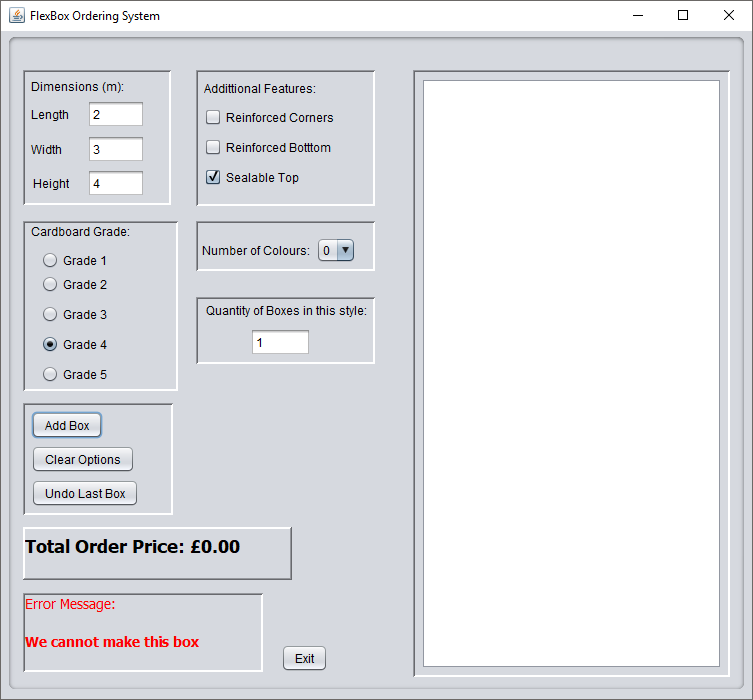
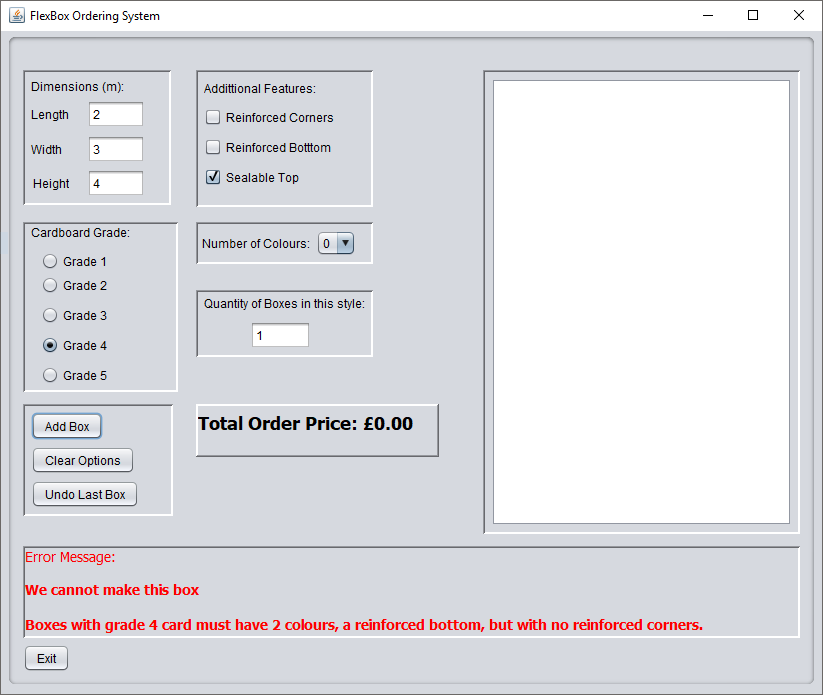
minor GUI change

diff --git a/adproc/src/adproc/FlexBoxUI.java b/adproc/src/adproc/FlexBoxUI.java
@@ -419,7 +419,7 @@ public class FlexBoxUI extends javax.swing.JFrame {
             outputPanelLayout.createParallelGroup(javax.swing.GroupLayout.Alignment.LEADING)
             .addGroup(outputPanelLayout.createSequentialGroup()
                 .addContainerGap()
-                .addComponent(jScrollPane1, javax.swing.GroupLayout.DEFAULT_SIZE, 415, Short.MAX_VALUE)
+                .addComponent(jScrollPane1)
                 .addContainerGap())
         );
 
@@ -455,13 +455,13 @@ public class FlexBoxUI extends javax.swing.JFrame {
         mainPanelLayout.setVerticalGroup(
             mainPanelLayout.createParallelGroup(javax.swing.GroupLayout.Alignment.TRAILING)
             .addGroup(mainPanelLayout.createSequentialGroup()
+                .addGap(23, 23, 23)
                 .addGroup(mainPanelLayout.createParallelGroup(javax.swing.GroupLayout.Alignment.LEADING)
                     .addGroup(mainPanelLayout.createSequentialGroup()
-                        .addGap(23, 23, 23)
                         .addGroup(mainPanelLayout.createParallelGroup(javax.swing.GroupLayout.Alignment.LEADING)
                             .addGroup(mainPanelLayout.createSequentialGroup()
                                 .addComponent(dimPanel, javax.swing.GroupLayout.PREFERRED_SIZE, javax.swing.GroupLayout.DEFAULT_SIZE, javax.swing.GroupLayout.PREFERRED_SIZE)
-                                .addPreferredGap(javax.swing.LayoutStyle.ComponentPlacement.UNRELATED, javax.swing.GroupLayout.DEFAULT_SIZE, Short.MAX_VALUE))
+                                .addPreferredGap(javax.swing.LayoutStyle.ComponentPlacement.UNRELATED, 17, Short.MAX_VALUE))
                             .addGroup(mainPanelLayout.createSequentialGroup()
                                 .addComponent(addFeatPanel, javax.swing.GroupLayout.DEFAULT_SIZE, javax.swing.GroupLayout.DEFAULT_SIZE, Short.MAX_VALUE)
                                 .addGap(15, 15, 15)))
@@ -476,9 +476,8 @@ public class FlexBoxUI extends javax.swing.JFrame {
                             .addComponent(boxButtonPanel, javax.swing.GroupLayout.PREFERRED_SIZE, javax.swing.GroupLayout.DEFAULT_SIZE, javax.swing.GroupLayout.PREFERRED_SIZE)
                             .addComponent(totalPricePanel, javax.swing.GroupLayout.PREFERRED_SIZE, javax.swing.GroupLayout.DEFAULT_SIZE, javax.swing.GroupLayout.PREFERRED_SIZE))
                         .addGap(30, 30, 30))
-                    .addGroup(javax.swing.GroupLayout.Alignment.TRAILING, mainPanelLayout.createSequentialGroup()
-                        .addContainerGap(javax.swing.GroupLayout.DEFAULT_SIZE, Short.MAX_VALUE)
-                        .addComponent(outputPanel, javax.swing.GroupLayout.PREFERRED_SIZE, javax.swing.GroupLayout.DEFAULT_SIZE, javax.swing.GroupLayout.PREFERRED_SIZE)
+                    .addGroup(mainPanelLayout.createSequentialGroup()
+                        .addComponent(outputPanel, javax.swing.GroupLayout.DEFAULT_SIZE, javax.swing.GroupLayout.DEFAULT_SIZE, Short.MAX_VALUE)
                         .addPreferredGap(javax.swing.LayoutStyle.ComponentPlacement.UNRELATED)))
                 .addComponent(errorPanel, javax.swing.GroupLayout.PREFERRED_SIZE, javax.swing.GroupLayout.DEFAULT_SIZE, javax.swing.GroupLayout.PREFERRED_SIZE)
                 .addPreferredGap(javax.swing.LayoutStyle.ComponentPlacement.RELATED)
